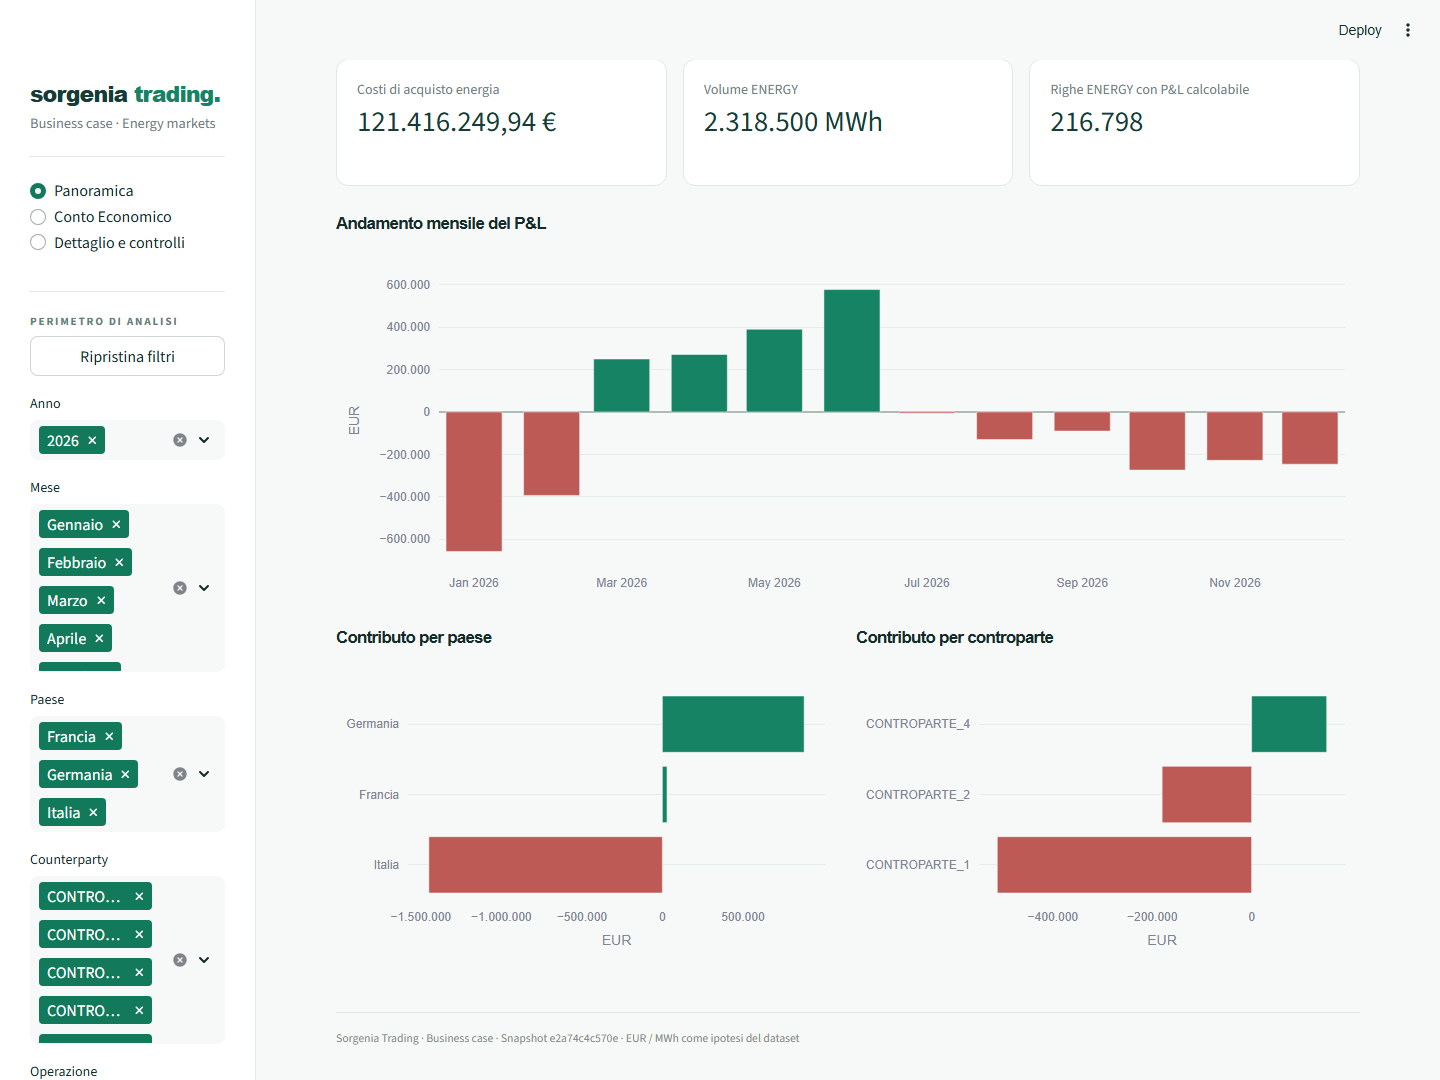
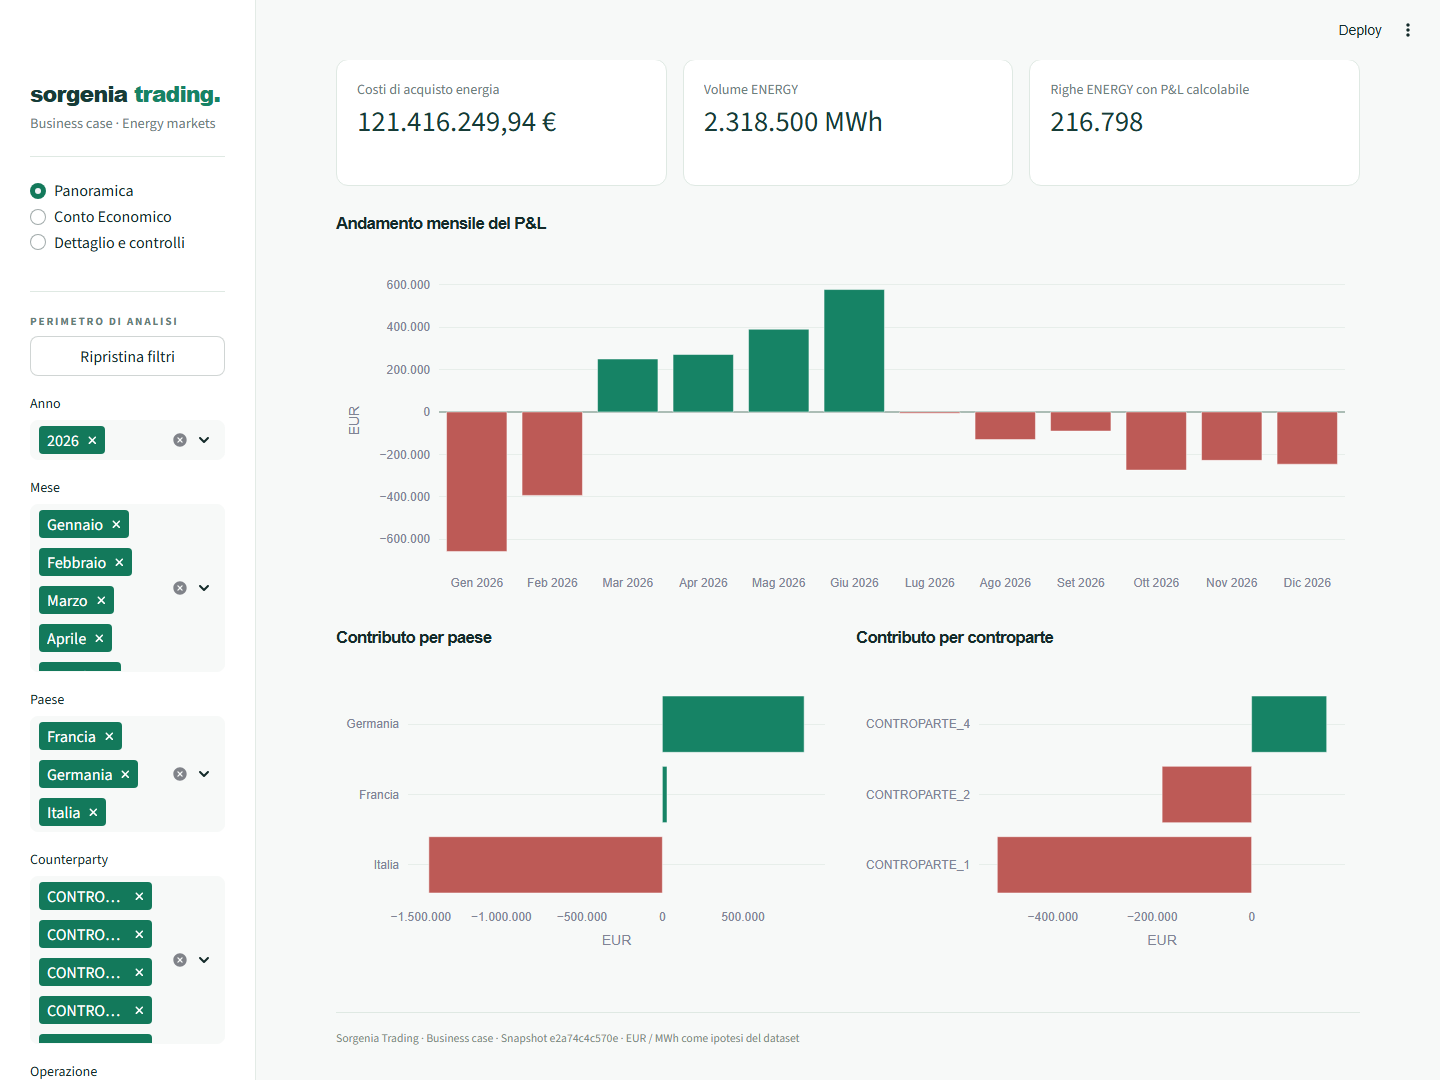
Add validated R/Python business case and private Streamlit report

diff --git a/Code/Python/web_report/browser_check.py b/Code/Python/web_report/browser_check.py
@@ -24,7 +24,9 @@ def main():
         page.goto("http://127.0.0.1:8501", wait_until="domcontentloaded")
         expect(page.get_by_text("-540.640,69 €", exact=True)).to_be_visible(timeout=120000)
         expect(page.locator('[data-testid="stPlotlyChart"] .js-plotly-plot')).to_have_count(3, timeout=60000)
-        expect(page.locator('[data-testid="stPlotlyChart"]').first.get_by_text("Gen 2026", exact=True)).to_be_visible()
+        axis_labels = page.locator('[data-testid="stPlotlyChart"]').first.locator(".xtick text").all_text_contents()
+        if not any("Gen" in text for text in axis_labels):
+            raise AssertionError(f"Mesi non localizzati in italiano: {axis_labels}")
         results.append({"view": "desktop_overview", "seconds": round(time.perf_counter() - start, 3)})
         page.screenshot(path=str(target / "desktop_overview.png"), full_page=True)
         page.get_by_role("heading", name="Contributo per paese", exact=True).scroll_into_view_if_needed()
